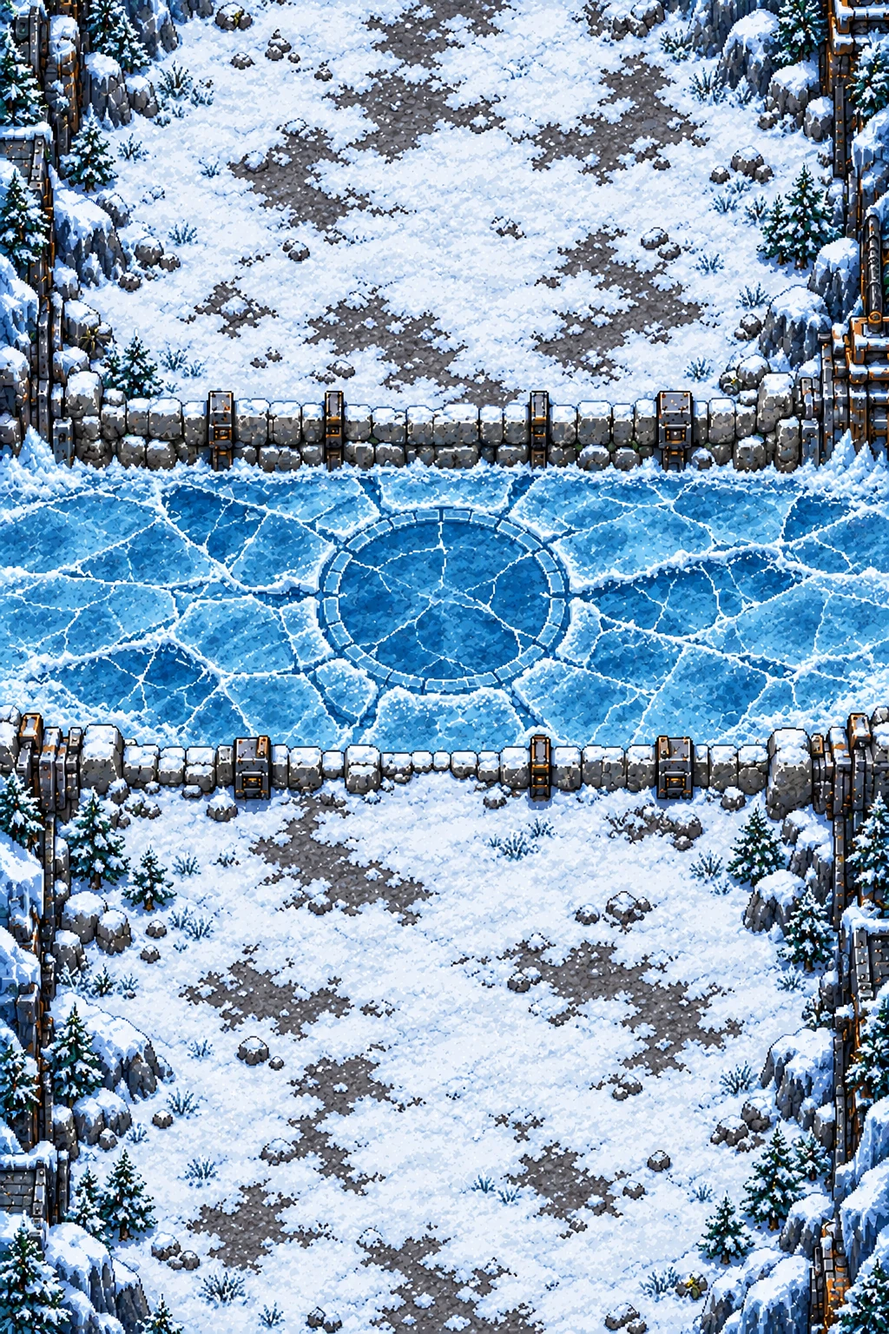
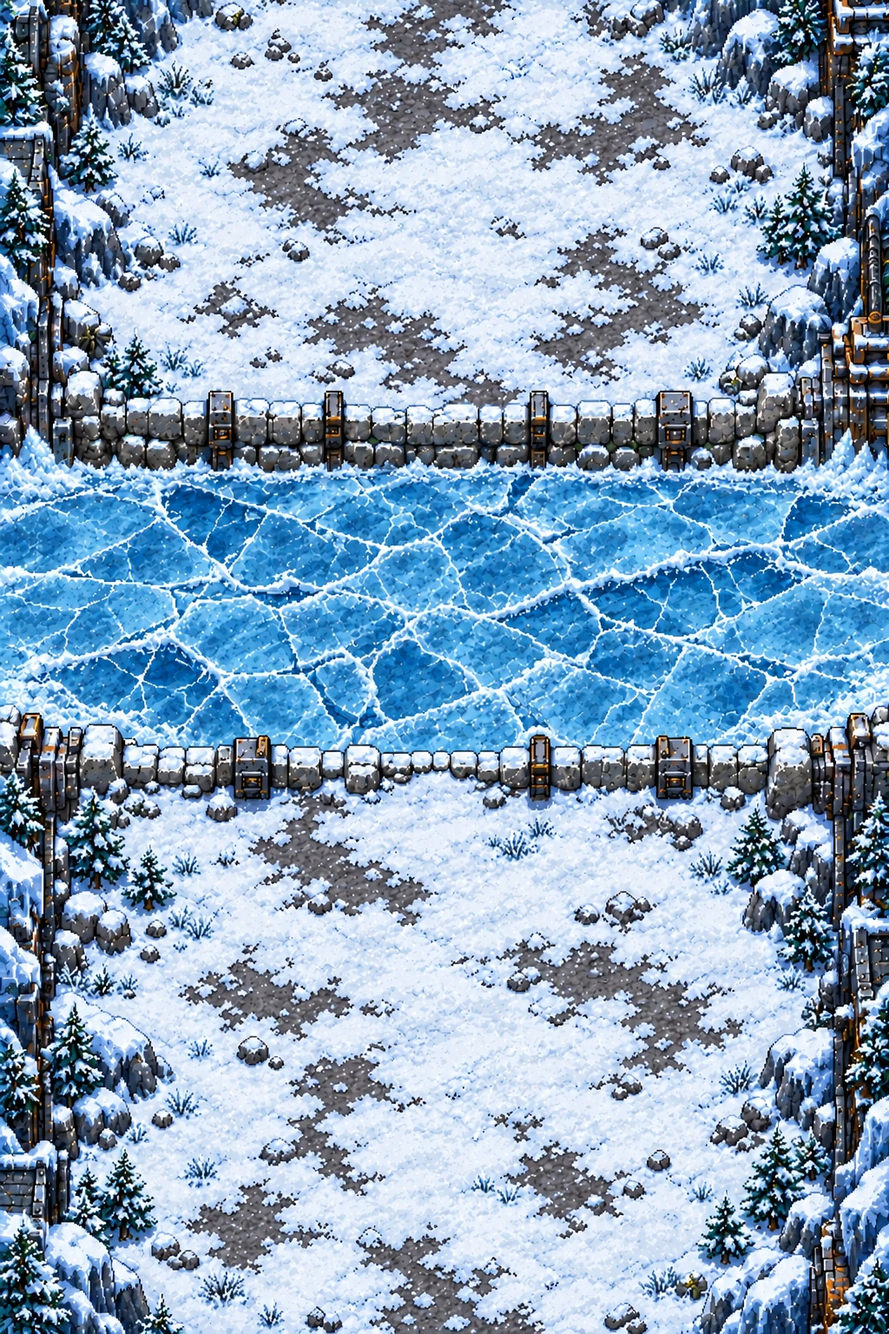
Refine snow hazards and storm rain

diff --git a/src/main.js b/src/main.js
@@ -1,5 +1,5 @@
 import { Application, Assets, Sprite, Texture, Rectangle, Graphics, Container, TilingSprite } from 'pixi.js';
-import { Match, WEAPONS, DROP_TYPES, GAME_MODES, MAPS, MAP_TYPES, W, H, RIVER, TOWER_TIMING, TOWER_ACTIVE_HEIGHT, TOWER_GEOMETRY, GRENADE_ARC_HEIGHT, GRENADE_STUN_DURATION, LASER_CHARGE_TIME, DODGE_DURATION, DODGE_COOLDOWN, BLAST_RADIUS, BARREL_BLAST_RADIUS, TOWER_BASE_Y, HAZARD_RULES, EAGLE_FLIGHT, SANDSTORM_WAVE_GAP, sandstormCovers, towerArmExtension, towerShieldBounds } from './model.js';
+import { Match, WEAPONS, DROP_TYPES, GAME_MODES, MAPS, MAP_TYPES, W, H, RIVER, BANK_BOUNDS, TOWER_TIMING, TOWER_ACTIVE_HEIGHT, TOWER_GEOMETRY, GRENADE_ARC_HEIGHT, GRENADE_STUN_DURATION, LASER_CHARGE_TIME, DODGE_DURATION, DODGE_COOLDOWN, BLAST_RADIUS, BARREL_BLAST_RADIUS, TOWER_BASE_Y, HAZARD_RULES, EAGLE_FLIGHT, SANDSTORM_WAVE_GAP, sandstormCovers, towerArmExtension, towerShieldBounds } from './model.js';
 import { Sound } from './audio.js';
 import { isolatedRollFrames } from './roll-sprites.js';
 import { ashCloudVisuals } from './phase5-visuals.js';
@@ -18,7 +18,7 @@ let selectedMode=GAME_MODES.RANDOM,selectedWeapon=null,selectedMap=MAPS.RIVERSID
 const input={x:0,y:0,pistol:false,special:false,dodge:false};
 const keys=new Set(),firePointers={pistol:null,special:null};let stick=null,toastUntil=0;
 let textures=[],rollFrames=[],flameFrames=[],blastFrames=[],hatchFrames=[],wasteFrames=[],mushroomFrames=[],crateFrames=[],barrelFrames=[],laserTexture,stunLauncherTexture,stunGrenadeTexture,missileLauncherTexture,missileTexture,nuclearLauncherTexture,nuclearGrenadeTexture,syringeTexture,deathFrames=[],deathFrameSizes=[],app,world,draw,projectileDraw,frontProjectileDraw,aerialProjectileDraw,aerialSpriteLayer,groundDraw,scarsDraw,stunDraw,marksDrawnRevision=-1,waterDraw,waterTile,towerWater,baseWaterDraw,baseVentDraw,baseLightDraw,muzzleDraw,shieldGlass,shieldDraw,fireSmoke,flameLayer,jetLayer,hazardLayer,debrisLayer,obstacleLayer,pickupFlightLayer,joystickDraw,tower,towerMask,cap,capFront,openCap,hatchContainer,hatchCurrent,hatchNext,soldiers=[],corpses=[],dropSprites=new Map(),aerialSprites=new Map(),wasteSprites=new Map(),obstacleSprites=new Map(),flameSprites=[],jetSprites=[],blastSprites=new Map();
-let arenaGroups={},waterTiles={},farBarrier,nearBarrier,volcanoVents=[],volcanicRockTexture,tornadoFrames=[],lightningFrames=[],mudTexture,ashCloudTexture,lavaProjectileFrames=[],lavaPoolFrames=[],burningRockFlightFrames=[],burningRockGroundFrames=[],rockCoolingFrames=[],mudLayer,environmentGround,environmentSky,lightningLayer,ashCloudLayer,ashWarningDraw,ashPuffs=[],ashVentPuffs=[],rockFlightSprites=new Map(),tornadoSprites=new Map(),lightningSprites=new Map(),volcanicFireSprites=new Map(),mudSprites=new Map();
+let arenaGroups={},waterTiles={},farBarrier,nearBarrier,rockBarrierTexture,snowBarrierTexture,volcanoVents=[],volcanicRockTexture,tornadoFrames=[],lightningFrames=[],mudTexture,ashCloudTexture,lavaProjectileFrames=[],lavaPoolFrames=[],burningRockFlightFrames=[],burningRockGroundFrames=[],rockCoolingFrames=[],mudLayer,environmentGround,environmentSky,lightningLayer,ashCloudLayer,ashWarningDraw,ashPuffs=[],ashVentPuffs=[],rockFlightSprites=new Map(),tornadoSprites=new Map(),lightningSprites=new Map(),volcanicFireSprites=new Map(),mudSprites=new Map();
 let phase6Frames={},phase6Sprites=new Map(),phase6WeatherLayer,phase6WeatherDraw,sandstormSprites=[];
 let sceneDirty=true,lastTowerMaskHalfWidth=NaN;
 const BASE_Y=TOWER_BASE_Y, BASE_WIDTH=175, BASE_HEIGHT=126;
@@ -234,7 +234,12 @@ function animateDeal(){
 function configureArena(){
   for(const [map,group] of Object.entries(arenaGroups))group.visible=map===game.map;
   waterTile=waterTiles[game.map];
-  if(farBarrier)farBarrier.tint=nearBarrier.tint=game.map===MAPS.STORM?0x8bacc2:game.map===MAPS.MAGMA?0xc78e78:game.map===MAPS.DESERT?0xd4aa68:game.map===MAPS.SNOW?0xbfd9ed:0xffffff;
+  if(farBarrier){
+    farBarrier.texture=nearBarrier.texture=game.map===MAPS.SNOW?snowBarrierTexture:rockBarrierTexture;
+    farBarrier.width=nearBarrier.width=W;farBarrier.height=nearBarrier.height=100;
+    farBarrier.scale.x=Math.abs(farBarrier.scale.x);nearBarrier.scale.x=-Math.abs(nearBarrier.scale.x);
+    farBarrier.tint=nearBarrier.tint=game.map===MAPS.STORM?0x8bacc2:game.map===MAPS.MAGMA?0xc78e78:game.map===MAPS.DESERT?0xd4aa68:0xffffff;
+  }
   for(const vent of volcanoVents)vent.visible=game.map===MAPS.MAGMA;
 }
 function prepareMatch(){
@@ -528,26 +533,50 @@ function renderPhase6Environment(){
       sprite(`ice-${patch.id}`,phase6Frames.ice,hazardLayer,patch.x,patch.y,patch.radius*2.55,patch.radius*1.75,sheetLoop(game.time+patch.id*.21,2,4),.92);
     }
     for(const avalanche of game.avalanches){
-      if(avalanche.age<avalanche.warning){
-        environmentGround.moveTo(avalanche.direction>0?0:W,avalanche.y).lineTo(avalanche.direction>0?W:0,avalanche.y).stroke({color:0xe8f7ff,width:3,alpha:.38+.18*Math.sin(game.time*12)});
-        continue;
+      if(avalanche.age<avalanche.warning)continue;
+      for(let part=0;part<3;part++){
+        const wall=sprite(`avalanche-${avalanche.id}-${part}`,phase6Frames.avalanche,lightningLayer,
+          avalanche.x+(part-1)*155,avalanche.y-avalanche.direction*58,210,175,
+          sheetLoop(avalanche.age-avalanche.warning+part*.11,9,4));
+        wall.scale.y=Math.abs(wall.scale.y)*(avalanche.direction>0?1:-1);
       }
-      const wall=sprite(`avalanche-${avalanche.id}`,phase6Frames.avalanche,lightningLayer,avalanche.x,avalanche.y-21,155,122,sheetLoop(avalanche.age-avalanche.warning,10,4));
-      wall.scale.x=Math.abs(wall.scale.x)*(avalanche.direction>0?1:-1);
     }
     for(const pellet of game.hail){
       if(pellet.age<pellet.start)continue;
+      const direction=pellet.direction||1;
+      const approach=Math.max(0,Math.min(1,(pellet.age-pellet.start)/(pellet.warning-pellet.start)));
+      const depart=Math.max(0,Math.min(1,(pellet.age-pellet.warning)/(pellet.life-pellet.warning)));
+      const cloudX=pellet.age<pellet.warning
+        ?(direction>0?-95:W+95)+(pellet.x-(direction>0?-95:W+95))*approach
+        :pellet.x+((direction>0?W+95:-95)-pellet.x)*depart;
+      sprite(`hail-cloud-${pellet.id}`,phase6Frames.hailCloud,lightningLayer,cloudX,pellet.y-100,152,96,sheetLoop(pellet.age,9,4),.94);
       if(!pellet.hit){
         const pulse=.5+.25*Math.sin(game.time*15+pellet.id);
         environmentGround.ellipse(pellet.x,pellet.y,27,18).fill({color:0xb8e5fa,alpha:.19}).stroke({color:0xe4faff,width:2,alpha:pulse});
         const fall=Math.max(0,(pellet.age-pellet.start)/(pellet.warning-pellet.start));
-        sprite(`hail-cloud-${pellet.id}`,phase6Frames.hailCloud,lightningLayer,pellet.x,pellet.y-90,96,65,sheetLoop(pellet.age,9,4),.85);
         environmentSky.moveTo(pellet.x-10,pellet.y-92+fall*65).lineTo(pellet.x-16,pellet.y-74+fall*65).stroke({color:0xe3faff,width:3,alpha:.8});
       }else sprite(`hail-impact-${pellet.id}`,phase6Frames.hailImpact,lightningLayer,pellet.x,pellet.y,60,53,Math.min(3,Math.floor((pellet.age-pellet.warning)*13)),Math.max(0,(pellet.life-pellet.age)/.55));
     }
-    for(let i=0;i<65;i++){
-      const x=(i*73+game.time*(15+i%5*5))%(W+30)-15,y=(i*157+game.time*(38+i%7*8))%(H+40)-20;
-      phase6WeatherDraw.circle(x,y,1+i%3*.35).fill({color:0xf1fbff,alpha:.22+i%4*.06});
+    for(let i=0;i<110;i++){
+      const x=(i*73+game.time*(14+i%5*6))%(W+30)-15,y=(i*157+game.time*(64+i%7*10))%(H+40)-20;
+      const radius=2+i%4*.42;
+      phase6WeatherDraw.circle(x+1,y+1,radius+1).fill({color:0x326b9b,alpha:.32});
+      phase6WeatherDraw.circle(x,y,radius).fill({color:0xffffff,alpha:.72+i%4*.06});
+      if(i%3===0)phase6WeatherDraw.moveTo(x-2,y-6).lineTo(x-1,y-1).stroke({color:0x5e91b2,width:1.2,alpha:.38});
+    }
+    for(const avalanche of game.avalanches)if(avalanche.age<avalanche.warning){
+      const bank=BANK_BOUNDS[avalanche.owner];
+      const spread=45+avalanche.age/avalanche.warning*130;
+      phase6WeatherDraw.rect(0,bank.minY,W,bank.maxY-bank.minY).fill({color:0x8bb9d5,alpha:.07});
+      for(let i=0;i<145;i++){
+        const x=(i*113+Math.sin(i*19)*29+game.time*(i%2?19:-18)+W*4)%W;
+        const travel=(i*61+avalanche.age*(125+i%6*11))%spread;
+        const y=avalanche.direction>0?bank.minY+travel:bank.maxY-travel;
+        const radius=2.7+i%3*.58;
+        phase6WeatherDraw.circle(x+1,y+1,radius+1.1).fill({color:0x3e739c,alpha:.63});
+        phase6WeatherDraw.circle(x,y,radius).fill({color:0xffffff,alpha:.88});
+        phase6WeatherDraw.moveTo(x-2,y-avalanche.direction*8).lineTo(x,y).stroke({color:0x5c92b7,width:2.1,alpha:.72});
+      }
     }
   }
   for(const [key,item] of phase6Sprites)if(!active.has(key)){item.destroy();phase6Sprites.delete(key);}
@@ -609,9 +638,11 @@ function renderEnvironment(){
       sprite.alpha=Math.min(1,(vortex.age-vortex.warning)*3,(vortex.life-vortex.age)*2);sprite.zIndex=vortex.y+32;
     }
     for(const [id,sprite] of tornadoSprites)if(!live.has(id)){sprite.destroy();tornadoSprites.delete(id);}
-    for(let i=0;i<47;i++){
-      const x=(i*79+game.time*95)%(W+100)-50,y=(i*157+game.time*280)%(H+70)-35;
-      environmentSky.moveTo(x,y).lineTo(x-5,y+18).stroke({color:0xa6c8d5,width:i%4===0?1.2:.7,alpha:i%3===0?.24:.13});
+    for(let i=0;i<96;i++){
+      const x=(i*79+game.time*(60+i%5*9))%(W+100)-50,y=(i*157+game.time*(250+i%7*25))%(H+70)-35;
+      const length=17+i%4*3;
+      phase6WeatherDraw.moveTo(x+1,y).lineTo(x-4,y+length).stroke({color:0x173c50,width:2.2,alpha:.35});
+      phase6WeatherDraw.moveTo(x,y).lineTo(x-5,y+length).stroke({color:0xbde8ff,width:i%4===0?1.6:1.2,alpha:.48+i%3*.06});
     }
     return;
   }
@@ -1093,12 +1124,13 @@ async function boot(){
   const [stormBg,magmaBg,volcanicRockArt,tornadoAnimationArt,ventArt,mudArt,lightningAnimationArt,ashCloudArt,lavaProjectileArt,lavaPoolArt,burningRockFlightArt,burningRockGroundArt,rockCoolingArt]=await Promise.all(
     ['arena-storm.webp','arena-magma.webp','phase5-volcanic-rock.png','phase5-tornado-frames.png','phase5-volcano-vent.png','phase5-mud.png','phase5-lightning-frames.png','phase5-ash-cloud.png','phase5-lava-projectile-frames.png','phase5-lava-pool-frames.png','phase5-burning-rock-frames.png','phase5-burning-rock-ground-frames.png','phase5-rock-cooling-frames.png'].map(src=>Assets.load(`${import.meta.env.BASE_URL}art/${src}`))
   );
-  const [desertBg,snowBg,eagleArt,scorpionArt,quicksandArt,avalancheArt,hailCloudArt,hailImpactArt,icePatchArt,sandstormArt,mirageArt]=await Promise.all(
-    ['arena-desert.webp','arena-snow.webp','eagle-frames.png','scorpion-frames.png','quicksand-frames.png','avalanche-frames.png','hail-cloud-frames.png','hail-impact-frames.png','ice-patch-frames.png','sandstorm-frames.png','mirage-frames.png'].map(src=>Assets.load(`${import.meta.env.BASE_URL}art/phase6/${src}`))
+  const [desertBg,snowBg,snowBarrierArt,eagleArt,scorpionArt,quicksandArt,avalancheArt,hailCloudArt,hailImpactArt,icePatchArt,sandstormArt,mirageArt]=await Promise.all(
+    ['arena-desert.webp','arena-snow.webp','rock-barrier-snow.png','eagle-frames.png','scorpion-frames.png','quicksand-frames.png','avalanche-river-frames.png','hail-cloud-frames.png','hail-impact-frames.png','ice-patch-frames.png','sandstorm-frames.png','mirage-frames.png'].map(src=>Assets.load(`${import.meta.env.BASE_URL}art/phase6/${src}`))
   );
   for(const art of [bg,atlas,towerArt,capArt,openCapArt,hatchArt,flameArt,blastArt,laserArt,stunLauncherArt,stunGrenadeArt,missileLauncherArt,missileArt,blueDeath,redDeath,rockArt,dodgeBlueArt,dodgeRedArt,healArt,nuclearLauncherArt,nuclearGrenadeArt,wasteArt,mushroomArt,crateArt,barrelArt])art.source.scaleMode='nearest';
   for(const art of [stormBg,magmaBg,volcanicRockArt,tornadoAnimationArt,ventArt,mudArt,lightningAnimationArt,ashCloudArt,lavaProjectileArt,lavaPoolArt,burningRockFlightArt,burningRockGroundArt,rockCoolingArt])art.source.scaleMode='nearest';
-  for(const art of [desertBg,snowBg,eagleArt,scorpionArt,quicksandArt,avalancheArt,hailCloudArt,hailImpactArt,icePatchArt,sandstormArt,mirageArt])art.source.scaleMode='nearest';
+  for(const art of [desertBg,snowBg,snowBarrierArt,eagleArt,scorpionArt,quicksandArt,avalancheArt,hailCloudArt,hailImpactArt,icePatchArt,sandstormArt,mirageArt])art.source.scaleMode='nearest';
+  rockBarrierTexture=rockArt;snowBarrierTexture=snowBarrierArt;
   volcanicRockTexture=volcanicRockArt;mudTexture=mudArt;
   ashCloudTexture=ashCloudArt;
   deathFrames=[blueDeath,redDeath].map((art,player)=>DEATH_CROPS[player].map(([x,y,w,h])=>new Texture({source:art.source,frame:new Rectangle(x,y,w,h)})));

diff --git a/src/model.js b/src/model.js
@@ -40,7 +40,8 @@ export const GAME_MODES = { RANDOM:'random', RANDOM_SAME:'random-same', RANDOM_F
 export const MAPS = { RIVERSIDE:'riverside', STORM:'storm', MAGMA:'magma', DESERT:'desert', SNOW:'snow' };
 export const MAP_TYPES = Object.values(MAPS);
 export const HAZARD_RULES = { mudSlow:.55, lightningDamage:18, tornadoDamage:10, tornadoPullRadius:118, tornadoPullMin:.62, tornadoPullMax:1.05, rockDamage:16, volcanicFireDps:12, burningRockDps:10, burningRockRadius:40, burningRockDuration:3.5, rockCoolingDuration:.9 };
-export const PHASE6_RULES = { eagleDamage:11, eagleWarning:1.25, eagleRadius:29, quicksandSlow:.52, quicksandPull:.38, quicksandRadius:50, scorpionDamage:8, scorpionSlow:1, scorpionStagger:.32, scorpionWindup:.34, avalancheDamage:14, hailDamage:4, hailFlinch:.22, iceSlip:.38 };
+export const PHASE6_RULES = { eagleDamage:11, eagleWarning:1.25, eagleRadius:29, quicksandSlow:.52, quicksandPull:.38, quicksandRadius:50, scorpionDamage:8, scorpionSlow:1, scorpionStagger:.32, scorpionWindup:.34, avalancheDamage:14, hailDamage:4, hailFlinch:.22, iceSlip:.85 };
+export const AVALANCHE = { warning:1.5, life:4.4, edge:100, halfWidth:205, hitDepth:48, push:65 };
 export const EAGLE_FLIGHT = { approach:.85, dive:PHASE6_RULES.eagleWarning, recover:.55, retreat:1.3 };
 export const SANDSTORM_WAVE_GAP = 150;
 export function sandstormCovers(storm,y){
@@ -269,15 +270,19 @@ export class Match {
     }else if(this.map===MAPS.SNOW){
       if(kind===0){
         for(const owner of [0,1]){
-          const bank=BANK_BOUNDS[owner],direction=this.random()<.5?1:-1;
-          this.avalanches.push({id:this.id++,owner,x:direction>0?-85:W+85,
-            y:bank.minY+75+this.random()*(bank.maxY-bank.minY-150),direction,age:0,warning:1.15,life:4.6,hit:false});
+          const bank=BANK_BOUNDS[owner],direction=owner===1?1:-1;
+          this.avalanches.push({id:this.id++,owner,x:W/2,
+            y:direction>0?bank.minY-AVALANCHE.edge:bank.maxY+AVALANCHE.edge,
+            direction,age:0,warning:AVALANCHE.warning,life:AVALANCHE.life,hit:false});
         }
         this.emit('avalanche');
       }else{
-        for(const owner of [0,1])for(let wave=0;wave<3;wave++){
+        for(const owner of [0,1]){
+          const direction=this.random()<.5?1:-1;
+          for(let wave=0;wave<3;wave++){
           const occupied=this.hail.filter(h=>h.owner===owner);
-          this.hail.push({id:this.id++,owner,wave,...this.environmentalPoint(owner,occupied),age:0,start:wave*.32,warning:1.15+wave*.32,life:1.7+wave*.32,hit:false});
+          this.hail.push({id:this.id++,owner,wave,direction,...this.environmentalPoint(owner,occupied),age:0,start:wave*.32,warning:1.15+wave*.32,life:2.5+wave*.32,hit:false});
+          }
         }
         this.emit('hail');
       }
@@ -405,15 +410,18 @@ export class Match {
     for(const avalanche of this.avalanches){
       avalanche.age+=dt;
       if(avalanche.age<avalanche.warning)continue;
-      avalanche.x=avalanche.direction>0?-85+(W+170)*(avalanche.age-avalanche.warning)/(avalanche.life-avalanche.warning):W+85-(W+170)*(avalanche.age-avalanche.warning)/(avalanche.life-avalanche.warning);
+      const bank=BANK_BOUNDS[avalanche.owner];
+      const start=avalanche.direction>0?bank.minY-AVALANCHE.edge:bank.maxY+AVALANCHE.edge;
+      const end=avalanche.direction>0?bank.maxY+AVALANCHE.edge:bank.minY-AVALANCHE.edge;
+      avalanche.y=start+(end-start)*Math.min(1,(avalanche.age-avalanche.warning)/(avalanche.life-avalanche.warning));
       const p=this.players[avalanche.owner];
-      if(!avalanche.hit&&p.hp>0&&Math.abs(p.x-avalanche.x)<45&&Math.abs(p.y-avalanche.y)<56){
+      if(!avalanche.hit&&p.hp>0&&Math.abs(p.x-avalanche.x)<AVALANCHE.halfWidth&&Math.abs(p.y-avalanche.y)<AVALANCHE.hitDepth){
         avalanche.hit=true;
         if(this.damage(p,PHASE6_RULES.avalancheDamage)>0){
-          for(let step=0;step<9;step++){
-            const x=clamp(p.x+avalanche.direction*5,38,W-38);
-            if(this.obstacles.some(o=>blocksFighter(o,x,p.y)))break;
-            p.x=x;
+          for(let step=0;step<AVALANCHE.push/5;step++){
+            const y=clamp(p.y+avalanche.direction*5,bank.minY,bank.maxY);
+            if(y===p.y||this.obstacles.some(o=>blocksFighter(o,p.x,y)))break;
+            p.y=y;
           }
           this.emit('avalancheHit',{x:p.x,player:p.id});
         }
@@ -556,7 +564,7 @@ export class Match {
       if(onIce&&!p.onIce)this.emit('iceSlide',{x:p.x});
       p.onIce=onIce;
       if(onIce){
-        const blend=Math.min(1,dt*5);
+        const blend=Math.min(1,dt*2);
         p.iceVX+=(x-p.iceVX)*blend;p.iceVY+=(y-p.iceVY)*blend;
         p.iceSlip=PHASE6_RULES.iceSlip;x=p.iceVX;y=p.iceVY;
       }else if(p.iceSlip>0){
@@ -784,11 +792,11 @@ export class Match {
       const eagle=this.eagles.find(h=>h.owner===1&&h.target&&(
         h.target===h.target1?h.age>EAGLE_FLIGHT.approach+EAGLE_FLIGHT.dive-.65:
           h.age>EAGLE_FLIGHT.approach+EAGLE_FLIGHT.dive+EAGLE_FLIGHT.recover+EAGLE_FLIGHT.dive-.65)&&distance(p,h.target)<70);
-      const avalanche=this.avalanches.find(h=>h.owner===1&&h.age>h.warning-.3&&Math.abs(h.y-p.y)<75&&Math.abs(h.x-p.x)<190);
+      const avalanche=this.avalanches.find(h=>h.owner===1&&h.age>h.warning-.3&&Math.abs(h.y-p.y)<105&&Math.abs(h.x-p.x)<AVALANCHE.halfWidth);
       const hail=this.hail.find(h=>h.owner===1&&!h.hit&&h.age>=h.start&&distance(p,h)<55);
       const sand=this.quicksand.find(h=>h.owner===1&&distance(p,h)<80);
       const lateral=avalanche;
-      if(lateral){ty=p.y+(p.y>=lateral.y?100:-100);if(distance(p,lateral)<54)this.dodge(p,p.x-lateral.x,p.y-lateral.y);}
+      if(lateral){ty=p.y-lateral.direction*110;if(Math.abs(p.y-lateral.y)<65)this.dodge(p,0,-lateral.direction);}
       if(eagle){
         const impact=eagle.target===eagle.target1?EAGLE_FLIGHT.approach+EAGLE_FLIGHT.dive:EAGLE_FLIGHT.approach+EAGLE_FLIGHT.dive*2+EAGLE_FLIGHT.recover;
         tx=p.x+(p.x>=eagle.target.x?90:-90);ty=p.y+(p.y>=eagle.target.y?75:-75);

diff --git a/index.html b/index.html
@@ -42,7 +42,7 @@
           <div class="menu-card phase4-panel hidden" id="weapon-panel"><span class="eyebrow">CHOOSE FIXED WEAPON</span><h2>YOUR<br><em>DEAL.</em></h2><div id="weapon-choices" class="weapon-choices" role="group" aria-label="Choose the match weapon"></div><button id="weapon-start" class="primary" disabled>START MATCH</button><button id="weapon-back" class="secondary">BACK</button></div>
           <div class="menu-card phase4-panel hidden" id="map-panel"><span class="eyebrow">THE TOWER / FIVE GROUNDS</span><h2>CHOOSE<br><em>THE GROUND.</em></h2><button class="map-choice" data-map="riverside"><span class="map-thumb riverside"></span><span><strong>RIVERSIDE</strong><small>The original open-bank arena.</small></span></button><button class="map-choice" data-map="storm"><span class="map-thumb storm"></span><span><strong>STORM</strong><small>Moonlit rain, mud, lightning and tornadoes.</small></span></button><button class="map-choice" data-map="magma"><span class="map-thumb magma"></span><span><strong>MAGMA</strong><small>Volcanic rocks, fire and passing ash.</small></span></button><button class="map-choice" data-map="desert"><span class="map-thumb desert"></span><span><strong>DESERT</strong><small>Sandstorm, eagle, quicksand and mirage.</small></span></button><button class="map-choice" data-map="snow"><span class="map-thumb snow"></span><span><strong>SNOW</strong><small>Sliding ice, avalanche and hail.</small></span></button><button class="map-choice" data-map="random"><span class="map-thumb random">?</span><span><strong>RANDOM MAP</strong><small>Let the Tower choose the ground.</small></span></button><button id="map-back" class="secondary">BACK</button></div>
           <div class="menu-card phase4-panel hidden" id="deal-panel"><span class="eyebrow">RANDOM FIXED WEAPON</span><h2>THE TOWER<br><em>CHOSE.</em></h2><div id="deal-preview" class="deal-preview" aria-live="polite"><span class="weapon-picture"></span><strong id="deal-weapon-name"></strong></div><p>Both banks will be dealt this weapon for the round.</p><p id="deal-status" class="deal-status" role="status" aria-live="polite">THE TOWER IS DEALING…</p></div>
-          <div class="menu-card phase4-panel hidden" id="settings-panel"><span class="eyebrow">GAME SETTINGS</span><h2>SETTINGS</h2><p>Sound effects and controls</p><button id="settings-sound" class="secondary">SOUND ON</button><div class="alarm-setting"><label for="alarm-volume">TOWER ALARM <output id="alarm-volume-value" for="alarm-volume">100%</output></label><input id="alarm-volume" type="range" min="0" max="100" step="5" value="100" aria-label="Tower alarm volume"><div class="alarm-actions"><button id="alarm-mute" class="secondary" aria-pressed="false">MUTE ALARM</button><button id="alarm-preview" class="secondary">PREVIEW</button></div></div><p class="settings-help">Drag anywhere to move. Tap DODGE while moving to roll in that direction, or roll forward when still. You cannot be hit during the roll. Its ring fills as the cooldown ends; the Tower weapon ring shrinks as ammo is spent. Matching weapon drops add a full pickup's ammo with no cap. Syringes from broken crates restore up to 20 health. The lower fire button always uses your pistol; the middle one uses your Tower weapon. Hold and release the middle button to charge the Laser Gun, up to 1.1 seconds (16–46 damage).</p><p class="audio-credit">Hawk call: <a href="https://commons.wikimedia.org/wiki/File:Buteo_jamaicensis_-_Red-tailed_Hawk_XC71575.mp3" target="_blank" rel="noreferrer">Jonathon Jongsma</a> · <a href="https://creativecommons.org/licenses/by-sa/3.0/" target="_blank" rel="noreferrer">CC BY-SA 3.0</a></p><button id="settings-back" class="primary">BACK</button></div>
+          <div class="menu-card phase4-panel hidden" id="settings-panel"><span class="eyebrow">GAME SETTINGS</span><h2>SETTINGS</h2><p>Sound effects and controls</p><button id="settings-sound" class="secondary">SOUND ON</button><div class="alarm-setting"><label for="alarm-volume">TOWER ALARM <output id="alarm-volume-value" for="alarm-volume">10%</output></label><input id="alarm-volume" type="range" min="0" max="100" step="5" value="10" aria-label="Tower alarm volume"><div class="alarm-actions"><button id="alarm-mute" class="secondary" aria-pressed="false">MUTE ALARM</button><button id="alarm-preview" class="secondary">PREVIEW</button></div></div><p class="settings-help">Drag anywhere to move. Tap DODGE while moving to roll in that direction, or roll forward when still. You cannot be hit during the roll. Its ring fills as the cooldown ends; the Tower weapon ring shrinks as ammo is spent. Matching weapon drops add a full pickup's ammo with no cap. Syringes from broken crates restore up to 20 health. The lower fire button always uses your pistol; the middle one uses your Tower weapon. Hold and release the middle button to charge the Laser Gun, up to 1.1 seconds (16–46 damage).</p><p class="audio-credit">Hawk call: <a href="https://commons.wikimedia.org/wiki/File:Buteo_jamaicensis_-_Red-tailed_Hawk_XC71575.mp3" target="_blank" rel="noreferrer">Jonathon Jongsma</a> · <a href="https://creativecommons.org/licenses/by-sa/3.0/" target="_blank" rel="noreferrer">CC BY-SA 3.0</a></p><button id="settings-back" class="primary">BACK</button></div>
         </div>
       </div>
       <footer class="console">

diff --git a/tests/phase6.test.js b/tests/phase6.test.js
@@ -1,6 +1,6 @@
 import test from 'node:test';
 import assert from 'node:assert/strict';
-import {Match,MAPS,MAP_TYPES,GAME_MODES,BANK_BOUNDS,RIVER,PHASE6_RULES,EAGLE_FLIGHT,SANDSTORM_WAVE_GAP,sandstormCovers} from '../src/model.js';
+import {Match,MAPS,MAP_TYPES,GAME_MODES,BANK_BOUNDS,RIVER,PHASE6_RULES,EAGLE_FLIGHT,AVALANCHE,SANDSTORM_WAVE_GAP,sandstormCovers} from '../src/model.js';
 
 test('Desert and Snow keep equal bank depth and an impassable channel',()=>{
   assert.equal(BANK_BOUNDS[0].maxY-BANK_BOUNDS[0].minY,BANK_BOUNDS[1].maxY-BANK_BOUNDS[1].minY);
@@ -153,7 +153,10 @@ test('Snow starts with two ice patches per bank and pairs avalanche and hail',()
   const m=new Match(()=>.5,{map:MAPS.SNOW});
   assert.deepEqual([0,1].map(owner=>m.icePatches.filter(p=>p.owner===owner).length),[2,2]);
   m.startEnvironmentEvent();assert.deepEqual(m.avalanches.map(a=>a.owner),[0,1]);
+  assert.deepEqual(m.avalanches.map(a=>a.direction),[-1,1]);
+  assert.ok(m.avalanches.every(a=>a.y<BANK_BOUNDS[a.owner].minY||a.y>BANK_BOUNDS[a.owner].maxY));
   m.startEnvironmentEvent();assert.deepEqual([0,1].map(owner=>m.hail.filter(h=>h.owner===owner).length),[3,3]);
+  assert.ok(m.hail.every(h=>Math.abs(h.direction)===1));
   for(const item of [...m.icePatches,...m.hail])assert.ok(item.y>=BANK_BOUNDS[item.owner].minY&&item.y<=BANK_BOUNDS[item.owner].maxY);
 });
 
@@ -165,15 +168,21 @@ test('ice preserves a short steerable slide and does not leave its bank',()=>{
   while(p.x<edge)m.move(p,1,0,1/120);
   const x=p.x;m.move(p,0,0,1/120);
   assert.ok(p.x>x);
+  const start=p.x;for(let i=0;i<18;i++)m.move(p,0,0,1/120);
+  assert.ok(p.x-start>10,'ice carries the fighter well beyond the patch');
   for(let i=0;i<100;i++)m.move(p,0,-1,1/120);
   assert.ok(p.y>=BANK_BOUNDS[0].minY);
 });
 
 test('avalanche damages once and hail has a bounded single impact',()=>{
   const m=new Match(()=>.5,{map:MAPS.SNOW}),p=m.players[0];m.obstacles.forEach(o=>o.destroyed=true);
-  m.avalanches=[{id:1,owner:0,x:p.x,y:p.y,direction:1,age:1.15+(p.x+85)/(480+170)*(4.6-1.15),warning:1.15,life:4.6,hit:false}];
+  const bank=BANK_BOUNDS[0],start=bank.maxY+AVALANCHE.edge,end=bank.minY-AVALANCHE.edge;
+  const age=AVALANCHE.warning+(p.y-start)/(end-start)*(AVALANCHE.life-AVALANCHE.warning);
+  m.avalanches=[{id:1,owner:0,x:p.x,y:p.y,direction:-1,age,warning:AVALANCHE.warning,life:AVALANCHE.life,hit:false}];
+  const beforeY=p.y;
   m.updateEnvironment(1/120);
   assert.equal(p.hp,100-PHASE6_RULES.avalancheDamage);
+  assert.ok(p.y<beforeY&&p.y>=bank.minY,'avalanche pushes the southern fighter toward the river');
   const after=p.hp;m.updateEnvironment(1/120);assert.equal(p.hp,after);
   m.hail=[{id:2,owner:0,x:p.x,y:p.y,age:1.14,start:0,warning:1.15,life:1.7,hit:false}];
   m.updateEnvironment(.02);assert.equal(p.hp,after-PHASE6_RULES.hailDamage);

diff --git a/src/audio.js b/src/audio.js
@@ -151,7 +151,7 @@ export class Sound {
     const prefs=loadAudioPrefs();
     this.muted=prefs.muted===true;
     this.alarmMuted=prefs.alarmMuted===true;
-    this.alarmVolume=Number.isFinite(prefs.alarmVolume)?Math.max(0,Math.min(100,prefs.alarmVolume)):100;
+    this.alarmVolume=Number.isFinite(prefs.alarmVolume)?Math.max(0,Math.min(100,prefs.alarmVolume)):10;
     this.ready=false;this.clips={};this.burning=false;this.watering=false;this.towerPhase=null;this.ambientMap=null;
   }
   init(){
@@ -224,7 +224,7 @@ export class Sound {
     saveAudioPrefs(this);
   }
   toggleAlarmMute(){
-    if(this.alarmMuted&&this.alarmVolume===0)this.alarmVolume=100;
+    if(this.alarmMuted&&this.alarmVolume===0)this.alarmVolume=10;
     this.alarmMuted=!this.alarmMuted;
     if(this.ready){this.clips.riseAlarm.volume(this.alarmMuted?0:.23*this.alarmVolume/100);if(this.alarmMuted)this.clips.riseAlarm.stop();}
     saveAudioPrefs(this);

diff --git a/scripts/prepare-phase6-art.py b/scripts/prepare-phase6-art.py
@@ -18,6 +18,7 @@ SHEETS = (
     ("scorpion-sheet.png", "scorpion-frames.png", 6, (128, 128), (116, 105), "bottom"),
     ("quicksand-sheet.png", "quicksand-frames.png", 4, (128, 96), (124, 88), "center"),
     ("avalanche-sheet.png", "avalanche-frames.png", 4, (192, 144), (188, 136), "center"),
+    ("avalanche-river-sheet.png", "avalanche-river-frames.png", 4, (256, 192), (248, 178), "center"),
     ("hail-cloud-sheet.png", "hail-cloud-frames.png", 4, (160, 112), (155, 105), "center"),
     ("ice-patch-sheet.png", "ice-patch-frames.png", 4, (128, 88), (124, 80), "center"),
 )
@@ -135,7 +136,8 @@ def small_effect_sheets() -> None:
 
 def main() -> None:
     for name in ("desert", "snow"):
-        image = Image.open(SOURCE / f"arena-{name}.png").convert("RGB")
+        source = "arena-snow-v2.png" if name == "snow" else f"arena-{name}.png"
+        image = Image.open(SOURCE / source).convert("RGB")
         image.save(OUTPUT / f"arena-{name}.webp", "WEBP", quality=90, method=6)
     for item in SHEETS:
         normalize_strip(*item)

diff --git a/docs/PHASE_6_PRD.md b/docs/PHASE_6_PRD.md
@@ -82,8 +82,8 @@ Both banks are snow-covered with clear dark paths and cover silhouettes. Snow fa
 
 ### Avalanche
 
-- An avalanche enters from beyond the left or right edge of each bank and sweeps across it. A distant rumble, falling powder, and a growing edge marker show the approach before the damaging front arrives.
-- Equivalent avalanches occur on both banks. Directions and exact paths may be independently random, but exposed travel distance, speed, warning, and force must be comparable. A fighter can leave the sweep lane or dodge through the front.
+- An avalanche enters from beyond the **top** edge of the northern bank and the **bottom** edge of the southern bank. Heavy snow builds from those outer edges before the rolling front arrives and sweeps toward the river.
+- Equivalent avalanches occur on both banks. Both fronts travel toward the river with comparable speed, warning, and force. A fighter can reach the edge of the sweep or dodge through the front.
 - Contact pushes a fighter and deals a moderate one-time hit. Push resolution respects cover and bank bounds and never places a fighter in the frozen channel or traps them against a wall. The initial version does not leave permanent snow cover.
 - **Initial tuning proposal:** at least 1 second of approach warning and roughly 12–16 HP per hit. Tune width and push strength against the 1-second dodge cooldown.
 
@@ -92,11 +92,11 @@ Both banks are snow-covered with clear dark paths and cover silhouettes. Snow fa
 - Each bank starts with an equivalent number and approximate area of scattered ice patches. Their boundaries and shine read against the snow. Positions may vary by match within safe placement zones; patches do not spread without a cap.
 - Walking onto ice preserves some momentum. Releasing or reversing the movement control produces a short, steerable slide rather than an uncontrollable lock. Ice does not cause damage or change bullets. Dodge travel and invincibility remain predictable, and a roll cannot cross a bank boundary or solid cover.
 - The computer predicts enough stopping distance to avoid repeatedly sliding into a wall or hazardous landing area. Pickups on ice remain reachable.
-- **Initial tuning proposal:** 0.25–0.4 seconds of diminishing slide after leaving a patch. Tune on touch controls so stopping still feels intentional.
+- **Current tuning:** roughly 0.85 seconds of diminishing slide after leaving a patch, with slower steering response while on ice. Tune on touch controls so stopping still feels intentional.
 
 ### Hail squall
 
-- A cloud and wind cue precede a cluster of hail falling onto **marked locations** on each bank. The cloud moves overhead while individual pellets descend, strike their marks, bounce or shatter, and fade. Hail visibly comes from above rather than erupting from the ground.
+- Large clouds travel across each bank from left to right or right to left, passing over **marked locations** as hail falls. Individual pellets descend, strike their marks, bounce or shatter, and fade. Hail visibly comes from above rather than erupting from the ground.
 - Both banks receive the same number of marked strikes and timing, with independently chosen valid locations. Marks must stay visible over snow and ice. A fighter can walk between the impacts or dodge a cluster.
 - A direct hit deals light damage and a brief flinch, shorter than the Stun Launcher effect. Limit repeated hits from one cluster so a fighter cannot lose most of their health from a single squall. Hail does not create permanent blockers.
 - **Initial tuning proposal:** around 1 second of warning per cluster, 4 HP per direct pellet, a short 0.2–0.3-second interruption, and an event damage cap to tune in playtesting.

diff --git a/docs/PHASE_6_ART.md b/docs/PHASE_6_ART.md
@@ -10,17 +10,19 @@ The original generated images are in `docs/art-source/phase6/`. The game loads t
 | `sandstorm-frames.png` | 6 | 480 × 164 | Moving sand front and body |
 | `mirage-frames.png` | 4 | 64 × 64 | Heat shimmer under fake pickup |
 | `ice-patch-frames.png` | 4 | 128 × 88 | Icy glint and slide surface |
-| `avalanche-frames.png` | 4 | 192 × 144 | Snow front and rolling body |
+| `avalanche-river-frames.png` | 4 | 256 × 192 | Rolling avalanche front in three overlapping sections, oriented toward the river |
 | `hail-cloud-frames.png` | 4 | 160 × 112 | Overhead cloud |
 | `hail-impact-frames.png` | 4 | 48 × 48 | Ice strike and shatter |
+| `arena-snow.webp` | — | 1024 × 1536 source | Frozen river without a baked-in Tower circle |
+| `rock-barrier-snow.png` | — | Wide strip | Snow-covered outer bank wall |
 
 The two 1024 × 1536 arena sources preserve the current top bank, middle channel and bottom bank positions. Desert replaces the channel with a deep dry crack; Snow freezes it. The Tower, fighters, pickups, cover and hazards are separate objects in the Pixi scene. Animation frame selection uses simulation time, so pause holds each pose and resume continues smoothly. The preparation script normalizes transparent frame bounds so in-game size and contact points remain stable.
 
 ## Image generation prompt set
 
 1. **Desert arena:** edit the existing arena into level yellow sand on both equal banks; retain exact channel geometry, Tower center and wall locations; put a deep dry crack in the channel; use stone mountains at the perimeter and sparse cacti and palms; detailed original arcade pixel art, no fighters or HUD.
-2. **Snow arena:** edit the same layout into a snowy night arena with a visibly frozen, impassable river and a reinforced circular Tower opening; preserve bank and wall positions; original detailed pixel art, no fighters or HUD.
+2. **Snow arena revision:** preserve the snowy banks and impassable frozen river, but replace the former circular Tower opening with continuous cracked ice. The Tower and its base are separate rendered objects.
 3. **Desert hazard sheets:** transparent pixel-art sequences for a brown eagle flapping and diving, a dark scorpion emerging and striking, a golden quicksand spiral opening and closing, and a broad blowing-sand front.
-4. **Snow hazard sheets:** transparent pixel-art sequences for a rolling avalanche, an overhead hail cloud, and an icy ground patch with moving glints.
+4. **Snow hazard sheets:** transparent pixel-art sequences for a broad rolling avalanche moving from a bank's outer edge toward the river, an overhead hail cloud, and an icy ground patch with moving glints. Edit the blocking wall into snow-capped stones and frosted plants while retaining its transparent strip shape.
 
 The preparation script derives the small mirage shimmer and hail impact frames from code-native shapes. Neither these sheets nor the generated images contain art extracted from another game.
